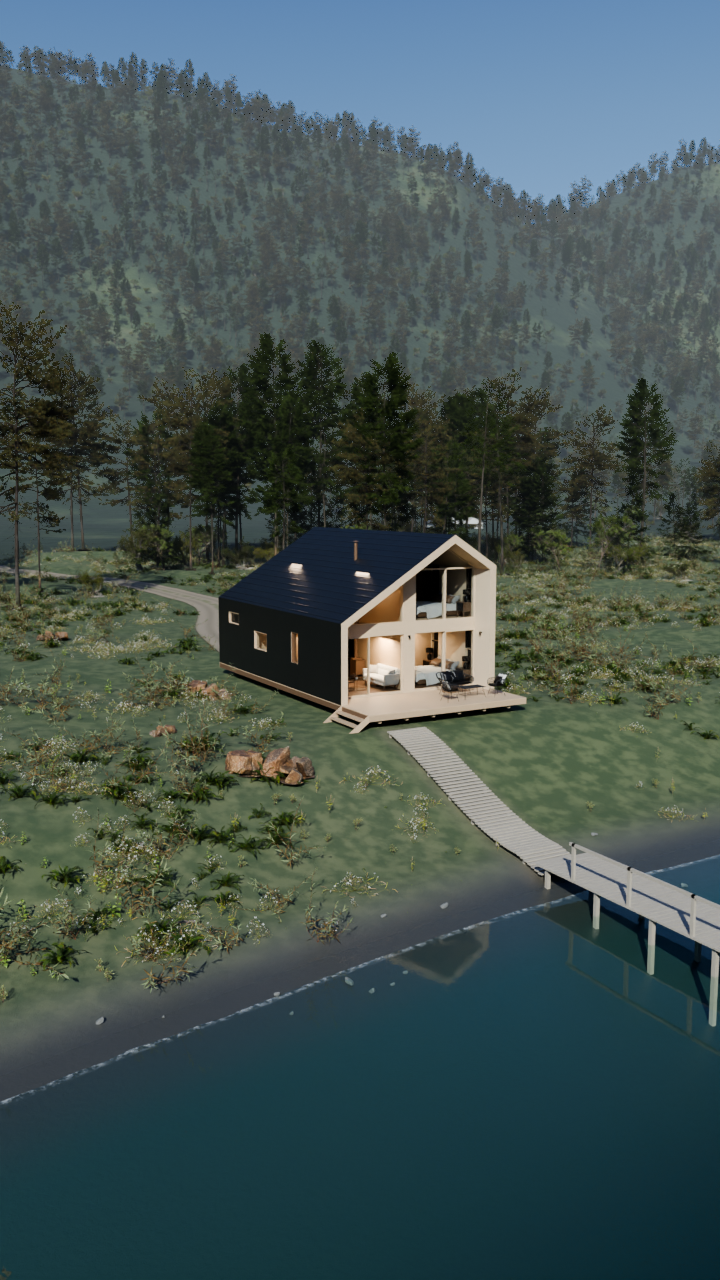
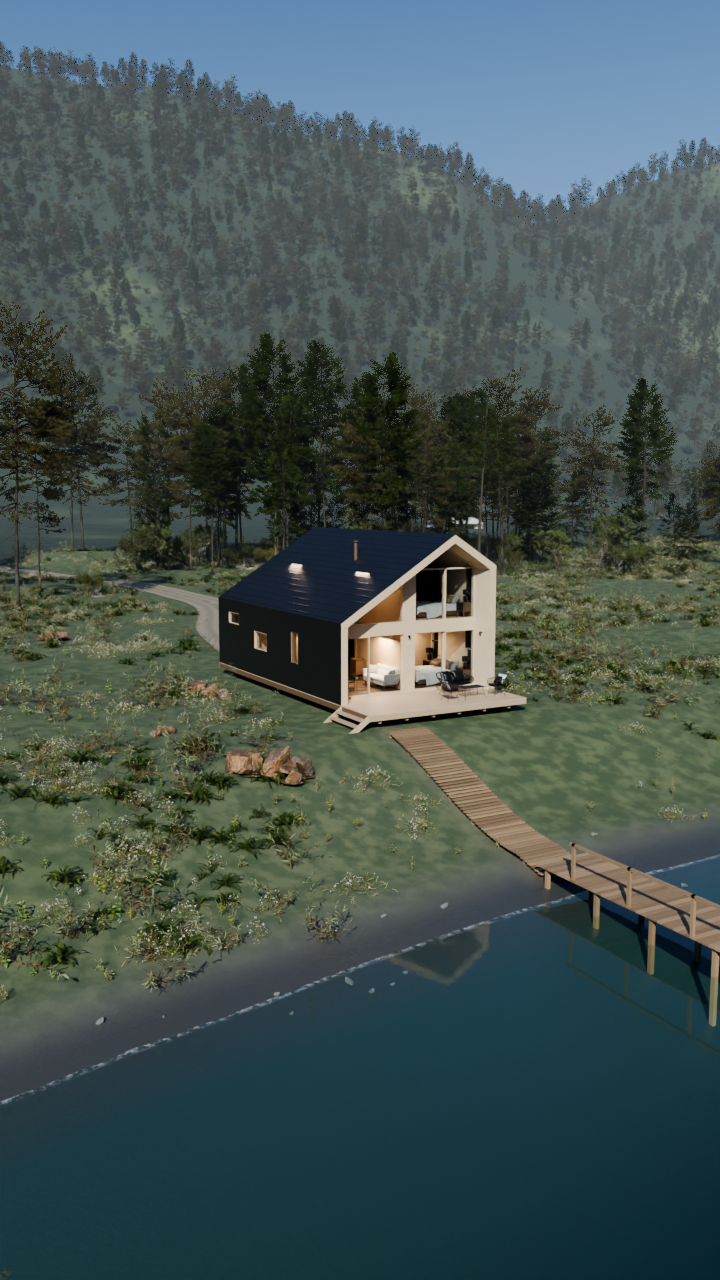
Casa Boldo: el muelle, de madera de verdad
El muelle y la pasarela usaban boards_mat con tonos grises y salían leyéndose como hormigón. Van
con material propio (muelle_mat): tono por tabla desde Object Info > Random —en un entablado real
no hay dos tablas del mismo color, y con boards_mat no se podía porque dibuja bandas parejas sobre
toda la superficie—, veta corrida a lo largo de la tabla y relieve sacado de esa misma veta. Las
juntas no se dibujan: cada tabla ya es una caja con su luz.

Fotos de aprobación rehechas con el cambio.

Claude-Session: https://claude.ai/code/session_01EHD4cEyEQFpm8yyqSpzhVe

Changed region(s): [[0.55, 0.5625, 1.0, 0.8125]]

diff --git a/casa_boldo_3d.py b/casa_boldo_3d.py
@@ -497,6 +497,44 @@ def meadow_grass_mat():
     return m
 
 
+def muelle_mat():
+    """Madera del muelle y la pasarela: tablas de pino a la intemperie, no entablado gris.
+
+    Cada tabla es un objeto aparte, así que el tono sale de Object Info > Random: una tabla más
+    clara, la de al lado más oscura. Eso es lo que hace que un entablado se lea como madera —en un
+    deck real no hay dos tablas del mismo color— y con `boards_mat` no se podía, porque dibuja
+    bandas parejas sobre toda la superficie. Las juntas, además, ya están en la geometría (cada
+    tabla es una caja con su luz), así que acá no se dibujan: sólo veta, que corre a lo largo de
+    la tabla (eje X), y el relieve sale de esa misma veta."""
+    m, n, l = new_mat("MuelleMadera")
+    N = Nodos(n, l)
+    b = n["Principled BSDF"]
+    tc = n.new("ShaderNodeTexCoord")
+    info = n.new("ShaderNodeObjectInfo")
+    mp = n.new("ShaderNodeMapping")
+    mp.inputs["Scale"].default_value = (0.22, 9.0, 9.0)   # ruido estirado = veta
+    l.new(tc.outputs["Object"], mp.inputs["Vector"])
+    veta = N.noise(mp.outputs["Vector"], 5.0, 8, 0.6, 1.6)
+    fina = N.noise(mp.outputs["Vector"], 24.0, 4, 0.5, 0.8)
+    ramp = n.new("ShaderNodeValToRGB")
+    e = ramp.color_ramp.elements
+    e[0].color, e[1].color = (0.155, 0.09, 0.048, 1), (0.44, 0.295, 0.165, 1)
+    e.new(0.5).color = (0.27, 0.175, 0.095, 1)
+    l.new(N.math("ADD", N.math("MULTIPLY", info.outputs["Random"], 0.68),
+                 N.math("MULTIPLY", veta, 0.32)), ramp.inputs["Fac"])
+    col = N.mix(N.math("MULTIPLY", fina, 0.38), ramp.outputs["Color"], (0.175, 0.115, 0.065))
+    # algo de plata de intemperie en los cantos, sin apagar el tono de la madera
+    col = N.mix(N.math("MULTIPLY", N.smooth(veta, 0.62, 0.78), 0.3), col, (0.3, 0.27, 0.235))
+    l.new(col, b.inputs["Base Color"])
+    l.new(N.math("ADD", 0.64, N.math("MULTIPLY", fina, 0.2)), b.inputs["Roughness"])
+    bmp = n.new("ShaderNodeBump")
+    bmp.inputs["Strength"].default_value = 0.4
+    bmp.inputs["Distance"].default_value = 0.005
+    l.new(N.math("ADD", N.math("MULTIPLY", veta, 0.7), N.math("MULTIPLY", fina, 0.3)), bmp.inputs["Height"])
+    l.new(bmp.outputs["Normal"], b.inputs["Normal"])
+    return m
+
+
 def concrete_mat():
     m, n, l = new_mat("Hormigon")
     N = Nodos(n, l)
@@ -524,7 +562,7 @@ def materials():
         "pastoRibera": meadow_grass_mat(),
         "matorral": scrub_mat(),
         "roca": principled("Roca", (0.16, 0.16, 0.15), 0.8),
-        "muelle": boards_mat("Muelle", (0.3, 0.26, 0.21), (0.46, 0.41, 0.33), "X", 4.0, 0.78, 0.45),
+        "muelle": muelle_mat(),
     }
     return M
 
